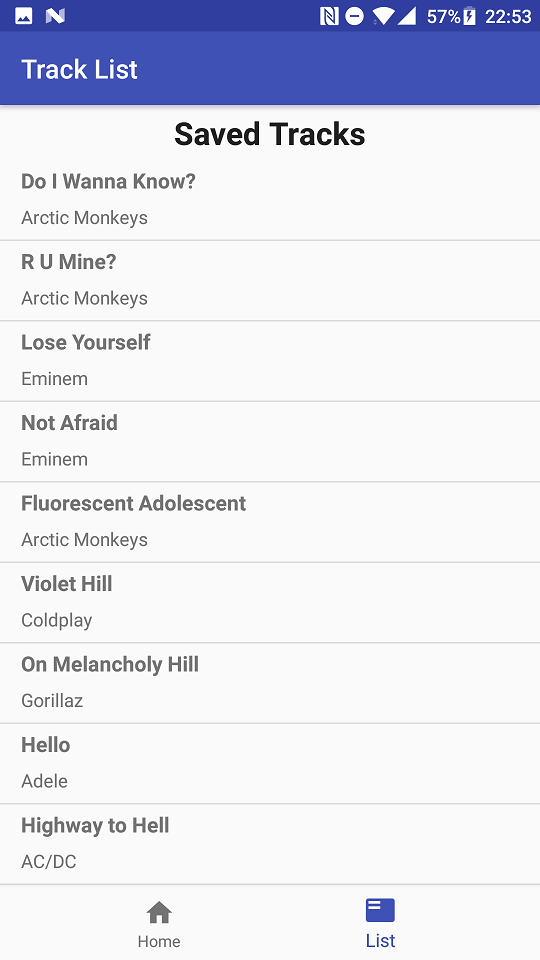
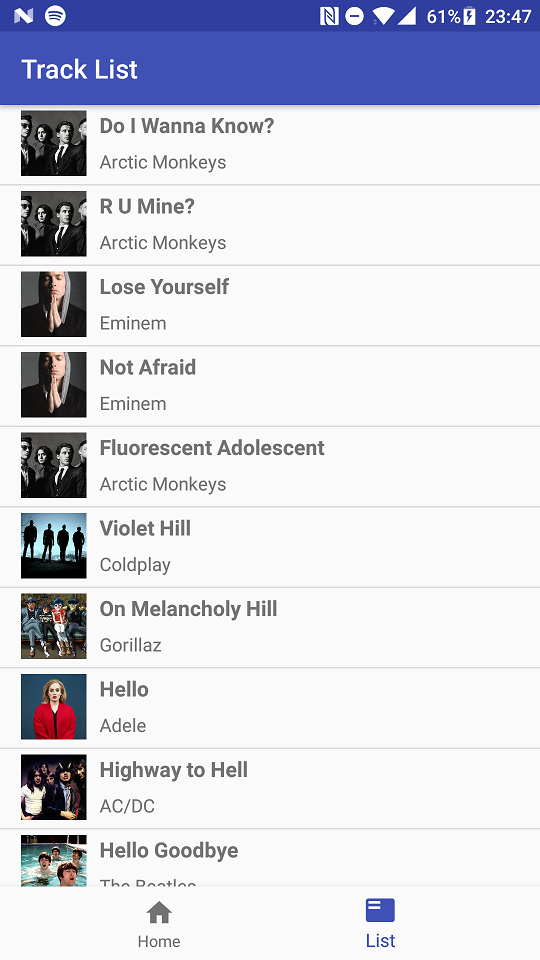
Added cover images to the listen list

diff --git a/app/src/main/java/com/example/sebastiaan/sebastiaanjoustra_pset3/ImageAsyncTask.java b/app/src/main/java/com/example/sebastiaan/sebastiaanjoustra_pset3/ImageAsyncTask.java
@@ -1,0 +1,39 @@
+package com.example.sebastiaan.sebastiaanjoustra_pset3;
+
+import android.graphics.Bitmap;
+import android.graphics.BitmapFactory;
+import android.os.AsyncTask;
+import android.util.Log;
+import android.widget.ImageView;
+
+import java.io.InputStream;
+
+/**
+ * Created by Sebastiaan on 20-Sep-17.
+ */
+
+public class ImageAsyncTask extends AsyncTask<String, Void, Bitmap> {
+    // Source: https://stackoverflow.com/questions/5776851/load-image-from-url
+    ImageView ivTrackImage;
+
+    public ImageAsyncTask(ImageView image) {
+        this.ivTrackImage = image;
+    }
+
+    protected Bitmap doInBackground(String... urls) {
+        String urldisplay = urls[0];
+        Bitmap bmpResult = null;
+        try {
+            InputStream in = new java.net.URL(urldisplay).openStream();
+            bmpResult = BitmapFactory.decodeStream(in);
+        } catch (Exception e) {
+            Log.e("Error", e.getMessage());
+            e.printStackTrace();
+        }
+        return bmpResult;
+    }
+
+    protected void onPostExecute(Bitmap result) {
+        ivTrackImage.setImageBitmap(result);
+    }
+}

diff --git a/app/src/main/java/com/example/sebastiaan/sebastiaanjoustra_pset3/TrackListAdapter.java b/app/src/main/java/com/example/sebastiaan/sebastiaanjoustra_pset3/TrackListAdapter.java
@@ -1,12 +1,14 @@
 package com.example.sebastiaan.sebastiaanjoustra_pset3;
 
 import android.content.Context;
+import android.media.Image;
 import android.support.annotation.NonNull;
 import android.support.annotation.Nullable;
 import android.view.LayoutInflater;
 import android.view.View;
 import android.view.ViewGroup;
 import android.widget.ArrayAdapter;
+import android.widget.ImageView;
 import android.widget.TextView;
 
 import java.util.ArrayList;
@@ -32,9 +34,15 @@ public class TrackListAdapter extends ArrayAdapter<Track>{
 
         TextView tvTrackName = (TextView) customRow.findViewById(R.id.tvRowItemTrackName);
         TextView tvArtist = (TextView) customRow.findViewById(R.id.tvRowItemArtist);
+        ImageView ivAlbumImage = (ImageView) customRow.findViewById(R.id.ivRowAlbumImage);
 
         tvTrackName.setText(listItem.getSongName());
         tvArtist.setText(listItem.getArtist());
+
+        String imgLink = listItem.getImageLink();
+
+        new ImageAsyncTask(ivAlbumImage).execute(imgLink);
+
 
         return customRow;
     }
